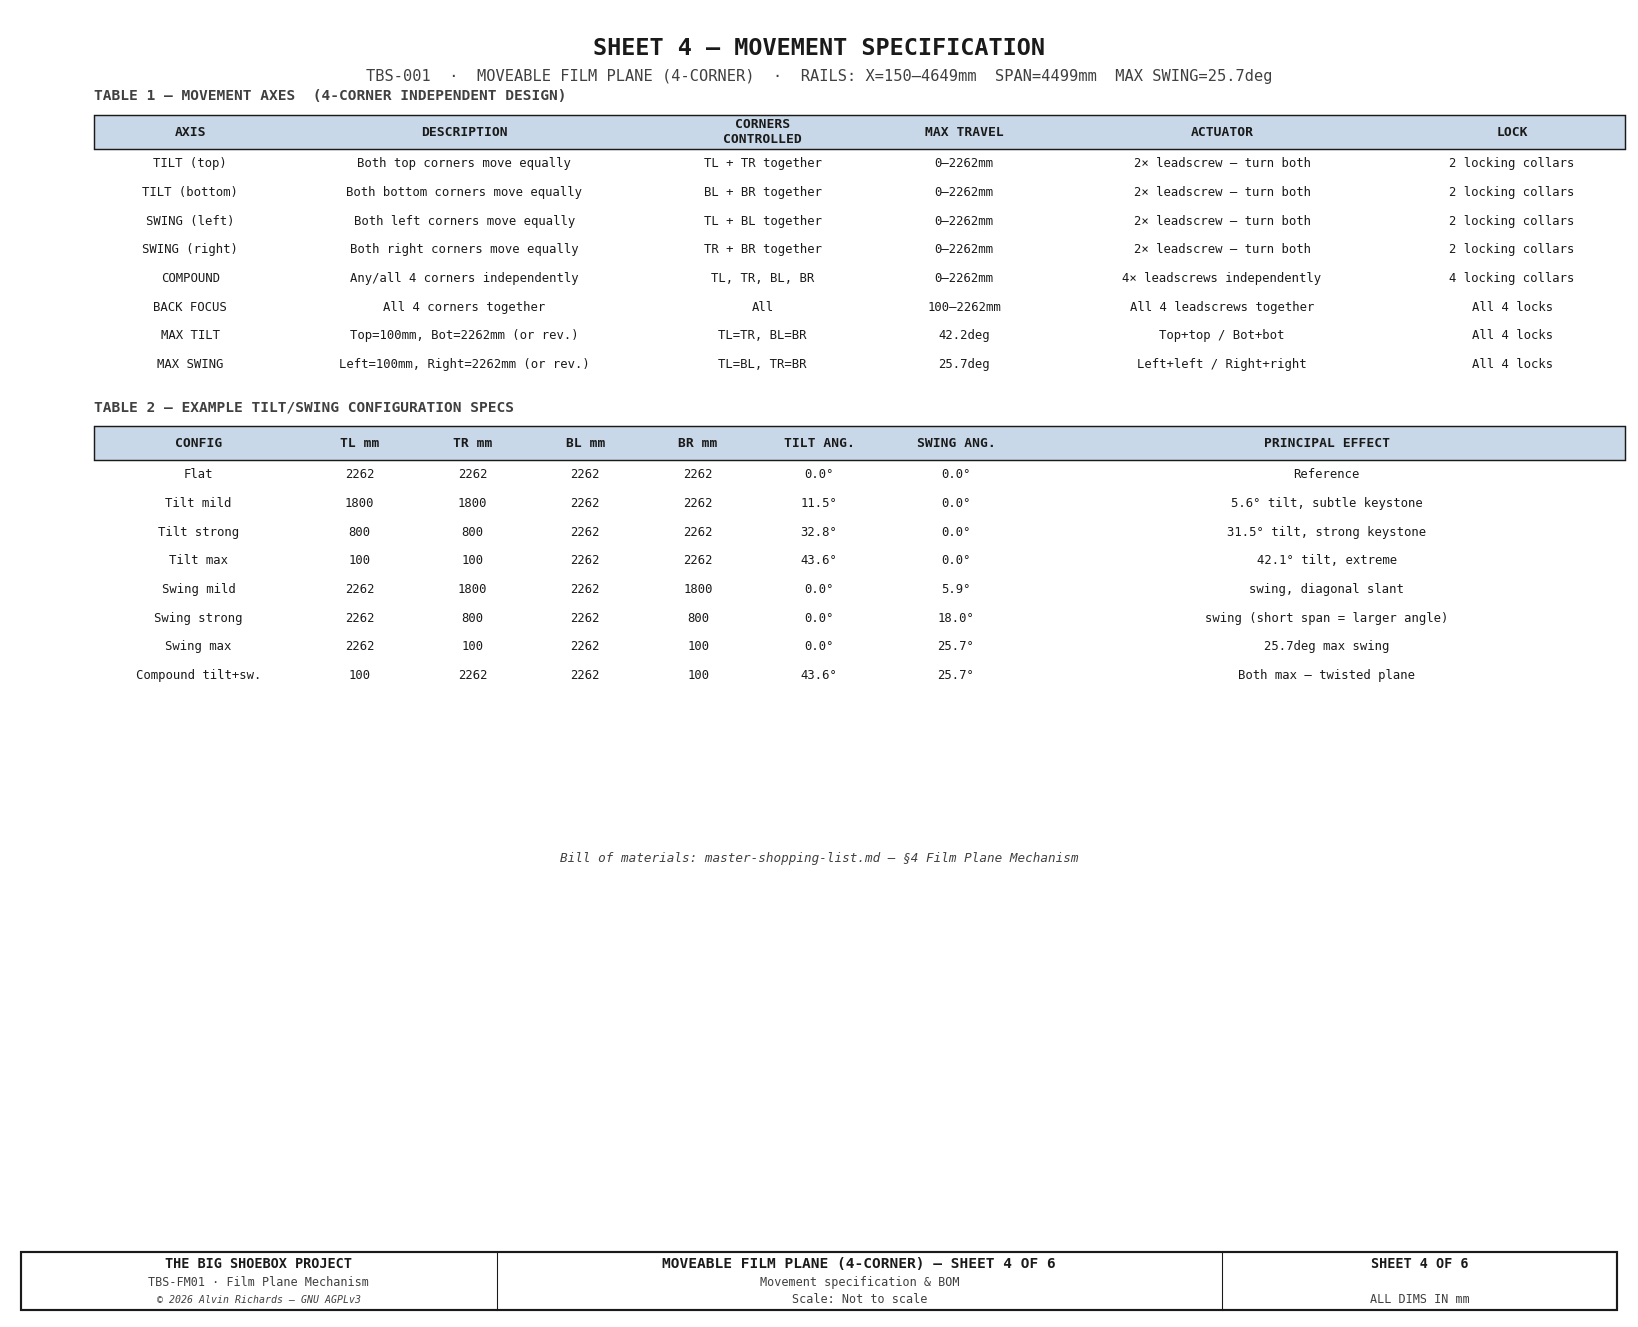
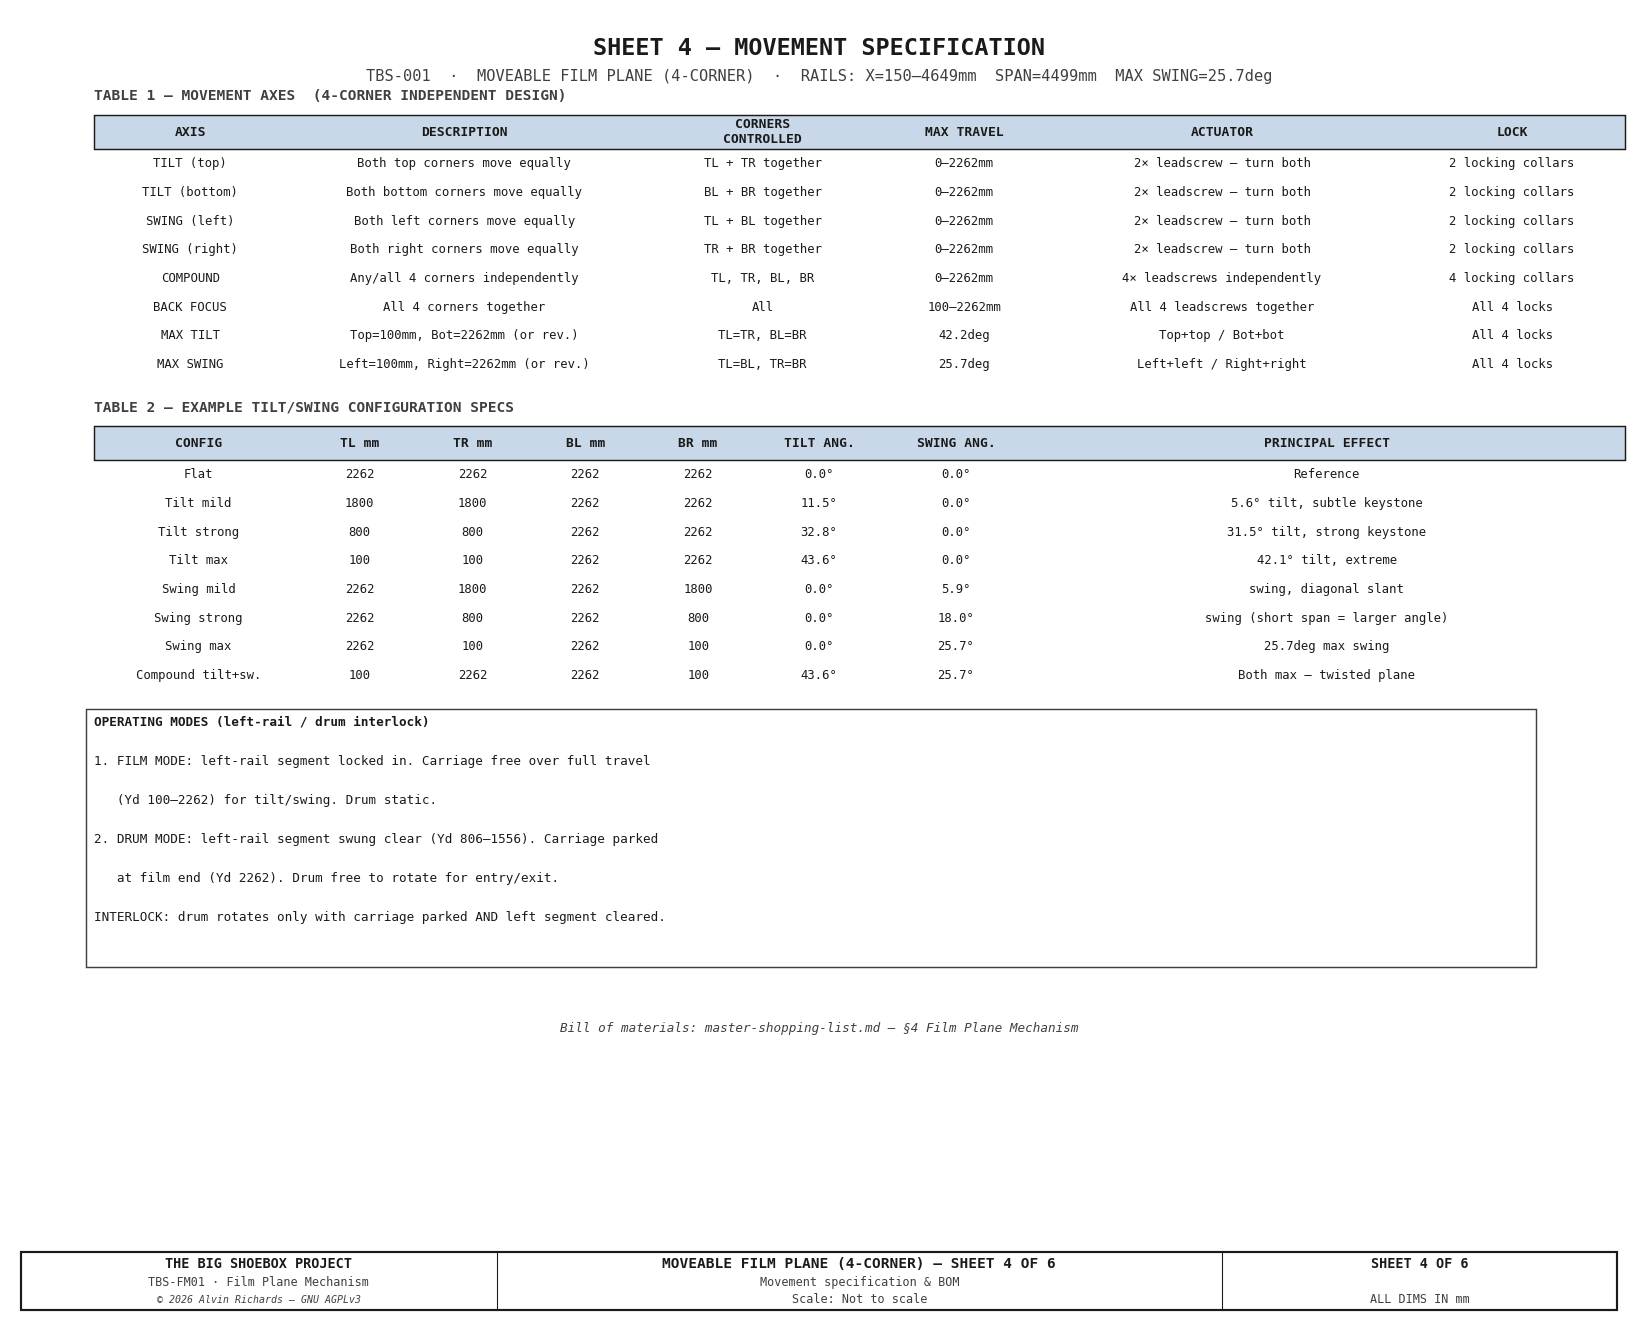
film-plane: demountable left-rail segment + drum-mode interlock notes

diff --git a/src/generators/generate_film_plane_mechanism.py b/src/generators/generate_film_plane_mechanism.py
@@ -33,6 +33,8 @@ from tbs_constants import (
     CLAMP_OPEN_GAP, CLAMP_SPRING_F,
     CLAMP_N_HORIZ, CLAMP_N_VERT, CLAMP_N_TOTAL,
     BRACE_RHS, BRACE_T, BRACE_Z_BOT, BRACE_Z_TOP,
+    BRACE_LEFT_DEMOUNT_Y0, BRACE_LEFT_DEMOUNT_Y1, CARRIAGE_PARK_Y,
+    DRUM_CY, DRUM_R, DRUM_CX,
 )
 from tbs_title_block import title_block
 from tbs_drawing import leader, draw_notes, draw_dim_h, draw_dim_v
@@ -271,6 +273,44 @@ def sheet1():
         ax.plot([L+50, L+180], [(D_NEAR+D_FAR)/2 - i*220 + 400,
                                 (D_NEAR+D_FAR)/2 - i*220 + 400],
                 color=col, lw=2.0, ls=ls, zorder=10)
+
+    # ── DRUM FOOTPRINT — ghost circle for light-trap drum ─────────────────────
+    # Drum is a vertical cylinder at X=DRUM_CX=0, Yd=DRUM_CY=1181, radius=DRUM_R=375.
+    # In this plan view it appears as a circle centred at (DRUM_CX, DRUM_CY).
+    C_DRUM = "#C8A860"   # amber-gold ghost for drum footprint
+    ax.add_patch(Circle((DRUM_CX, DRUM_CY), DRUM_R,
+                        fc=C_DRUM, ec=C_DRUM, lw=1.2, alpha=0.18, zorder=4,
+                        linestyle="--"))
+    ax.add_patch(Circle((DRUM_CX, DRUM_CY), DRUM_R,
+                        fc="none", ec=C_DRUM, lw=1.2, alpha=0.55, zorder=4,
+                        linestyle="--"))
+    ax.text(DRUM_CX, DRUM_CY, "LIGHT-TRAP\nDRUM\n(Ø750mm)",
+            color=C_DRUM, fontsize=6, ha="center", va="center", **FONT, zorder=5,
+            alpha=0.75)
+
+    # ── DEMOUNTABLE LEFT-RAIL SEGMENT — Yd 806→1556 ───────────────────────────
+    # Overlay the left rail's removable span in a distinct dashed / highlighted style.
+    # The normal left rail runs D_NEAR(100)→D_FAR(2262) at RAIL_X_L.
+    # The demountable segment covers BRACE_LEFT_DEMOUNT_Y0(806)→BRACE_LEFT_DEMOUNT_Y1(1556).
+    C_DEMOUNT = "#CC3333"   # red — visually distinct "removable" colour
+    # Ceiling sub-rail (matches rx_ceil geometry from the loop above)
+    rx_ceil_L  = RAIL_X_L - RAIL_W // 2 - 5
+    rx_floor_L = RAIL_X_L + 5
+    seg_y0 = BRACE_LEFT_DEMOUNT_Y0
+    seg_y1 = BRACE_LEFT_DEMOUNT_Y1
+    seg_len = seg_y1 - seg_y0
+
+    for rx_d, alpha_d in [(rx_ceil_L, 0.85), (rx_floor_L, 0.70)]:
+        ax.add_patch(Rectangle((rx_d, seg_y0), RAIL_W * 0.8, seg_len,
+                               fc=C_DEMOUNT, ec=C_DEMOUNT, lw=1.4, alpha=alpha_d,
+                               linestyle="--", zorder=7))
+
+    # Leader pointing to the demountable segment
+    seg_mid_yd = (seg_y0 + seg_y1) / 2
+    leader(ax, rx_ceil_L + RAIL_W * 0.4, seg_mid_yd,
+           rx_ceil_L - 600, seg_mid_yd + 250,
+           "DEMOUNTABLE LEFT-RAIL SEGMENT\nswings clear for DRUM MODE\n(Yd 806–1556)",
+           color=C_DEMOUNT, ha="right", fs=6.5, font=FONT)
 
     # ── Annotations ───────────────────────────────────────────────────────────
     # Swing annotation arrow
@@ -932,8 +972,36 @@ def sheet4():
     draw_table(ax, 0.05, 0.656, cfg_headers, cfg_rows,
                [0.13, 0.07, 0.07, 0.07, 0.07, 0.08, 0.09, 0.37])
 
+    # ── Operating-modes note block ────────────────────────────────────────────
+    # draw_notes uses data coordinates; sheet4 uses transAxes for layout,
+    # so we render directly via ax.text with transAxes=True calls instead.
+    modes_lines = [
+        "OPERATING MODES (left-rail / drum interlock)",
+        "1. FILM MODE: left-rail segment locked in. Carriage free over full travel",
+        f"   (Yd 100–{CARRIAGE_PARK_Y}) for tilt/swing. Drum static.",
+        f"2. DRUM MODE: left-rail segment swung clear (Yd {BRACE_LEFT_DEMOUNT_Y0}–{BRACE_LEFT_DEMOUNT_Y1}). Carriage parked",
+        f"   at film end (Yd {CARRIAGE_PARK_Y}). Drum free to rotate for entry/exit.",
+        "INTERLOCK: drum rotates only with carriage parked AND left segment cleared.",
+    ]
+    line_h = 0.030
+    block_top = 0.46
+    block_left = 0.05
+    # Border background
+    block_h = len(modes_lines) * line_h + 0.018
+    ax.add_patch(Rectangle((block_left - 0.005, block_top - block_h + 0.005),
+                            0.90, block_h,
+                            transform=ax.transAxes,
+                            fc=GRID, ec=DIM, lw=0.8, zorder=3, clip_on=False))
+    for li, line in enumerate(modes_lines):
+        ty = block_top - li * line_h
+        fw = "bold" if li == 0 else "normal"
+        col = WHITE if li == 0 else ANNO
+        ax.text(block_left, ty, line,
+                transform=ax.transAxes, color=col, fontsize=7,
+                ha="left", va="top", fontweight=fw, **FONT)
+
     # BOM removed — consolidated to master-shopping-list.md §4
-    ax.text(0.50, 0.35,
+    ax.text(0.50, 0.22,
             "Bill of materials: master-shopping-list.md — §4 Film Plane Mechanism",
             transform=ax.transAxes, color=DIM, fontsize=7,
             ha="center", va="center", style="italic", **FONT)
